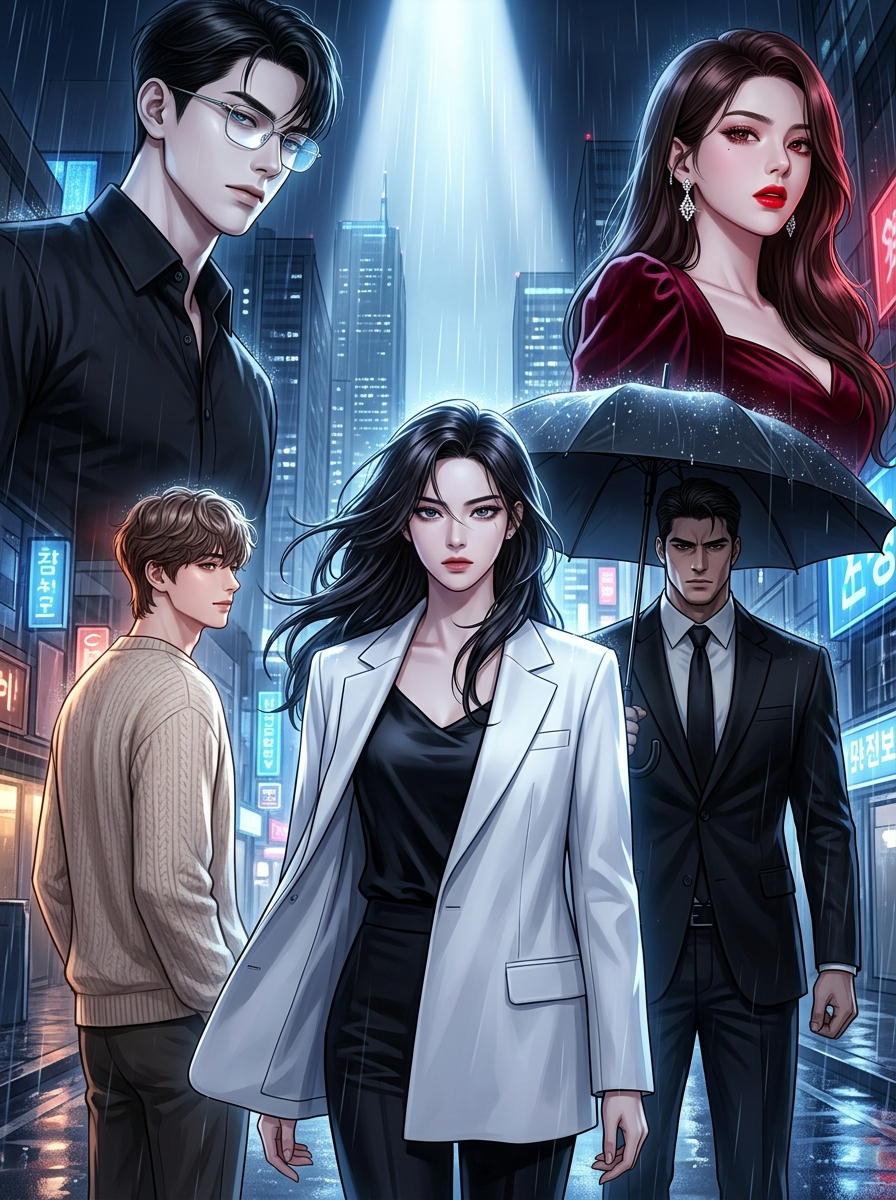
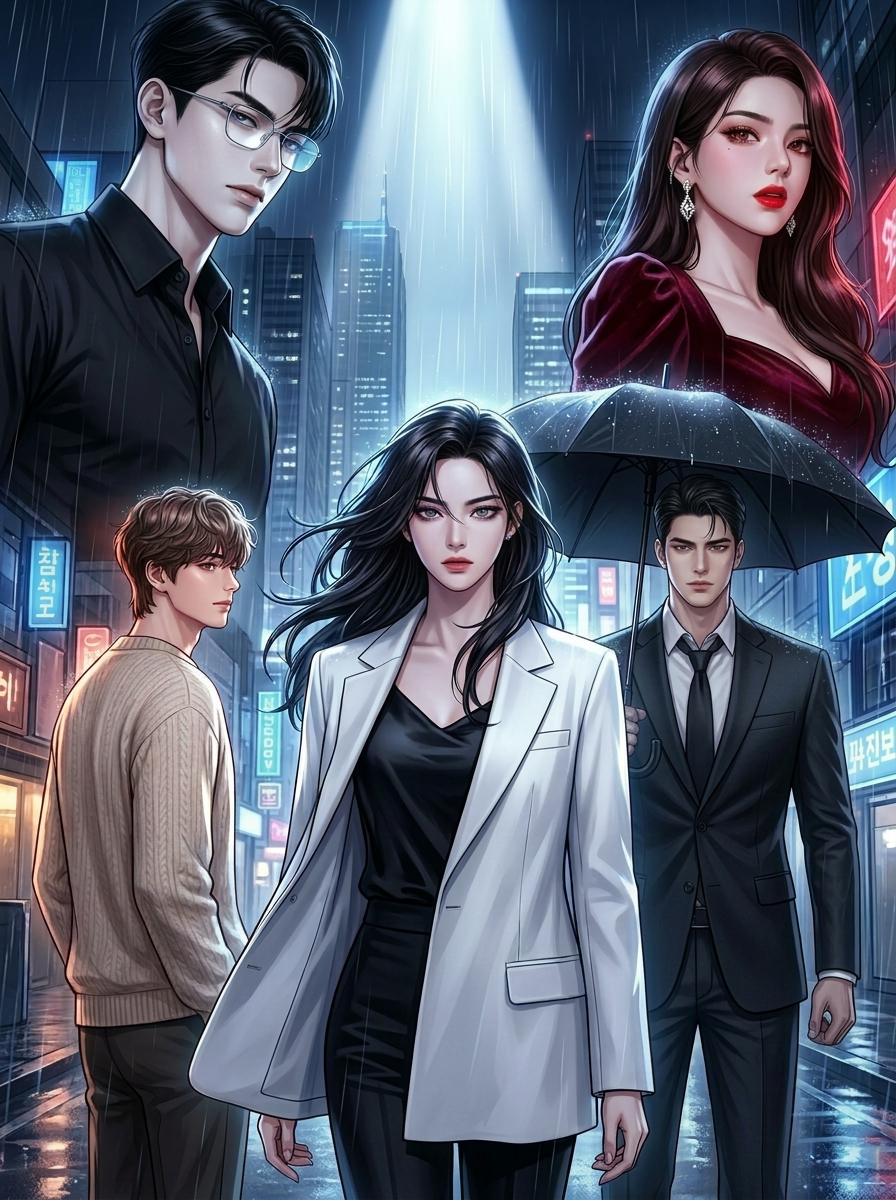
更新

diff --git a/sky/正文/第011章.md b/sky/正文/第011章.md
@@ -1,0 +1,173 @@
+清晨，陆家大宅。
+
+晨光穿过巨大的落地窗，却没能驱散客厅里压抑的冷空气。
+
+陆星朗被佣人从楼上叫下来。他穿着宽松的浅色针织衫，单手插在兜里，慢条斯理地走下旋转楼梯。
+
+一楼的真皮沙发上，坐着四个人。
+
+陆知远沉着脸，陆母端着茶盏。对面，方明川眉头紧锁，方琳戴着一副能遮住半张脸的黑超墨镜，双臂环抱，冷得像一块冰。
+
+“大家早。”陆星朗走到单人沙发前，径直坐下。
+
+方明川手里捏着的骨瓷茶杯重重磕在茶几上，发出一声脆响。
+
+“这么大的集团年度广告，说换人就换人！”方明川盯着陆星朗，声音压着怒火，“连个招呼都不打。你让琳琳的脸往哪里搁？让我的脸往哪里搁！”
+
+陆知远眉头一皱，立刻接力施压：“她是你的未婚妻！她失踪了两天，你去哪里找过她？自己未婚妻的行踪都不知道，你以后怎么当别人的丈夫，怎么管好这个家！”
+
+陆星朗靠在椅背上，没出声，眼底划过一丝极淡的嘲弄。
+
+“老方，知远。”
+
+陆母慢条斯理地撇了撇茶沫，声音温和却带着不容置疑的锋芒：“你们又不是不知道，从小到大，只有琳琳管星朗的份儿。我们星朗，什么时候管得了你们家琳琳？”
+
+方明川被噎了一下。
+
+他心里极度不舒服，但陆母的娘家背景深厚，他不敢对着陆家主母发作。
+
+方明川只能硬生生咽下这口气，继续将矛头对准陆星朗：“星朗，我就问你一句。你心里到底还有没有琳琳？还有没有我这个未来岳父！”
+
+大厅里的空气彻底安静下来。
+
+只有座钟的秒针在走。
+
+一直冷着脸的方琳，突然发出一声极轻的嗤笑。
+
+当初本以为陆星朗不会反抗，自己又需要一个足够体面的挡箭牌，才答应了这门联姻。既然事已至此，又还没官宣，与其哪天被陆家羞辱出门，不如她自己先来掀翻这张桌子。
+
+“Never mind。”
+
+方琳扬起下巴，声音清脆傲慢：“取消婚约吧。”
+
+“什么？！”
+
+方明川和陆家父母同时变了脸色。陆知远更是猛地站了起来。
+
+方琳根本不看长辈们的反应，目光直直越过茶几，盯着陆星朗。
+
+“你最近天天往芯动力跑，频繁接近那个叫许青禾的助理，无非就是想气我而已。”她勾起艳红的唇角，用一种施舍语气说道，“弟弟，我也已经另有对象了。姐姐成全你。”
+
+说完，她抓起旁边的爱马仕手袋，站起身，头也不回地往外走。
+
+高跟鞋敲击着大理石地板，发出尖锐刺耳的声响，响彻整个大厅。
+
+众人都惊愕在原地。
+
+“琳琳！你胡说八道什么！”方明川急得满头大汗，转头指着陆星朗，“星朗，这事没完！”
+
+他又立刻转向陆家二老，赔着笑脸鞠躬：“知远，弟妹，她没睡醒，小孩子说的气话，千万别当真！”
+
+说完，方明川转身气喘吁吁地追了出去。
+
+等他冲到别墅大门外时，方琳的那辆红色敞篷跑车早就轰鸣着排气管，溜得连尾灯都看不见了。
+
+只留下方明川一个人站在晨风中，气急败坏地直跺脚。
+
+——
+
+上午九点，青锋林区派出所门外。
+
+路炎穿着一身黑色速干运动服，跨在一辆碳纤维公路车上，正准备减速进院报到。
+
+一辆红色敞篷跑车带着刺耳的刹车声，扬起一阵尘土，硬生生切进他的车道，停在旁边。
+
+“滴！滴！”
+
+跑车喇叭在寂静的林区里极其嚣张地响了两声。
+
+路炎捏住刹车，长腿支地。
+
+他偏过头，看着跑车驾驶座上摘下墨镜的方琳。
+
+“方大小姐，在公安派出所大门外恶意鸣笛、寻衅滋事。我可以抓你进去住四十八小时。”
+
+方琳单手搭在车门上，眼波流转，带着几分挑衅和刻意的媚态。
+
+“扣我吧，路sir~ 要不，我们再去审讯室，单独聊聊？”
+
+“无聊。”路炎踩上踏板准备走人，“找个班上吧，大小姐。”
+
+“站住！”
+
+方琳拔高了声音：“你救了我，我还没好好谢你呢，你想要什么？钱，还是位置？”
+
+路炎只留下一个风一样的背影。
+
+“我要的东西，你给不了。”
+
+“是什么呀！”方琳不甘心地冲着他的背影大喊。
+
+风把男人的声音碎在清晨的空气里。
+
+“正义。”
+
+方琳坐在跑车里，看着那道挺拔的背影消失在派出所大门内。
+
+正义？
+
+今天确实给不了，改天应该可以。
+
+跑车引擎发出一声暴躁的轰鸣，猛地掉头，直奔芯动力片场。
+
+——
+
+芯动力影棚。
+
+机位正在平移。许青禾穿着一套剪裁极佳的通勤风休闲服，站在光影中心，正在确认走位。
+
+不远处的VIP休息区里，裴晚宁和景行刚拍完主线的定妆，正端着咖啡和经纪人谈笑风生。
+
+“砰！”
+
+影棚厚重的隔音门被一脚踹开。
+
+全场瞬间死寂。
+
+所有工作人员都僵在原地，连大气都不敢出。
+
+方琳踩着高跟鞋，带着一身极具压迫感的冷香，大步流星地走进片场。
+
+她没有走向导演台，也没有走向场地中央，而是径直走向了VIP休息区。
+
+裴晚宁和景行脸上的笑意僵住，还没来得及开口打招呼。
+
+方琳直接端起桌上两杯刚送来的冰美式。
+
+“哗——”
+
+深褐色的冰水毫无预兆地泼出，精准地淋在两人刚换上的“星”系列和“芯”系列高定成衣上。冰块顺着裴晚宁的领口砸落在地。
+
+“你疯了？！”裴晚宁尖叫一声跳起来，景行也猛地站直，脸色铁青，“方琳，你别太过分！”
+
+方琳随手把空纸杯扔在桌上，抽出纸巾擦了擦指尖。
+
+“过分？”她眼神高高在上地睨着景行，“哟，想当骑士吗？你们不过是趁主人不在，进来偷东西的两个小偷罢了。”
+
+景行气得浑身发抖，正要发作，旁边的经纪人死死拉住他的手腕，拼命摇头。在路可长公主面前，他们连顶嘴的资格都没有。
+
+方琳冷嗤一声，转过身，踩着满地的狼藉，一步步走到场地正中央。
+
+镁光灯下，许青禾平静地看着她，并没有退避。
+
+“方小姐，没有人想偷你的东西。”许青禾语气平稳，“是你自己先不爱惜羽毛，让整个剧组干等两天，几十号人陪着你烧钱。如果你自己没有放弃那个位置，谁也偷不走。”
+
+这几句话如同冷水滴进滚油。
+
+周围的工作人员倒吸了一口凉气。
+
+方琳的目光在许青禾脸上停了半秒，随后缓缓下移，落在那套备用的休闲服上。
+
+出乎所有人的意料，方琳没有泼咖啡。
+
+“算了。你也不过是个替身罢了。”
+
+方琳逼近半步，目光越过许青禾的肩膀，冷冷地吐出一句：
+
+“有罪的，是选中你那个人。”
+
+她替许青禾理了理衣领，然后环视片场。
+
+“大家好好拍。我不要的衣服，也是很好看的呢。”
+
+丢下这句话，她没有再看任何人一眼，转过身，踩着满地的狼藉，大步朝影棚外走去。

diff --git a/sky/项目资料/灵感备忘_兰姐红鲱鱼.md b/sky/项目资料/灵感备忘_兰姐红鲱鱼.md
@@ -1,0 +1,24 @@
+# 灵感备忘：关于“兰姐”身份的叙述性诡计（红鲱鱼）
+
+**记录时间：** 2026-09-25
+
+## 核心创意
+在揭示真正的地下赌场掌局者“兰姐”是**萧兰**之前，故意在前期正文中埋下烟雾弹，引导读者坚定地以为“兰姐”是女主那位名叫“兰因”的闺蜜**沈兰因**。
+
+这会产生绝佳的双重反转效果：
+1. **第一层反转（读者自以为猜中）**：读者以为沈兰因是幕后大佬，为了替女主出气绑架了方琳，直呼“闺蜜太飒了”。
+2. **第二层反转（真正的核爆）**：随着调查深入，发现沈兰因虽然厉害但掌控不了这个局，真正的“兰姐”是那个在福利院旧照片里、消失了二十多年、把两个亲生儿子当筹码的母亲萧兰！
+
+## 具体修改与铺垫建议（前12章适用）：
+1. **第2章（海边吃饭）**：增加沈兰因电脑屏幕的细节，如屏幕上闪过“保密公关名单”或“白马会所”等字眼，暗示她深谙灰黑地带运作。
+2. **第4章（救女主回家）**：强化沈兰因说“以后姐罩着你”时的黑道气场。女主问遇到坏人怎么办时，加一句半真半假的台词：“在G市，敢动我沈兰因的人，恐怕还没生出来。”
+3. **第9章（影棚干等）**：许青禾发微信吐槽方琳没来时，沈兰因回复一句暗示性极强的话：“恶人自有天收，说不定她现在正被关在哪个深山老林里叫天天不应呢。”（这与第10章方琳确实被关在山里完美契合，让读者深信不疑）。
+4. **第10章结尾**：男模白屿向“兰姐”汇报。读者会立刻顺理成章地将嫌疑锁定沈兰因。
+
+## 对第12章“神秘短信”的加成效果
+短信内容：“别信方井彦。他知道我是谁。”
+- **读者的第一反应（被误导）**：是沈兰因发的！方井彦查到了白马会所背后的她，她在警告青禾。
+- **后续剧情反转揭秘**：其实是**萧云策**发的！萧云策发现方井彦查出了他就是保镖前任，甚至查出了同母异父的血缘关系。
+
+## 备注
+此创意不改变《萧兰人物线》的任何官方核心设定，仅通过几句台词和细节调整，就能极大增强连载时的悬念感、读者讨论度和评论区的活跃度。

diff --git a/sky/项目导航.md b/sky/项目导航.md
@@ -4,27 +4,41 @@
 
 - [[创作规范/写作总控|写作总控]]
 - [[创作规范/文字质感|文字质感]]
+- [[创作规范/场景设计与反转节奏|场景设计与反转节奏]]
+- [[创作规范/写作参考_第1章文风与行文规范|写作参考_第1章文风与行文规范]]
 - [[项目资料/网文版_强狗血大纲|强狗血大纲总览]]
 - [[项目资料/网文版_人物与关系|人物与关系]]
 - [[项目资料/网文版_分卷与开篇细纲|分卷与开篇细纲]]
 - [[项目资料/网文版_反转伏笔清单|反转伏笔清单]]
+- [[项目资料/网文版_商战主线|商战主线]]
+- [[项目资料/网文版_连载章法|连载章法]]
 - [[项目资料/萧云策情感线|萧云策情感线]]
 - [[项目资料/方井彦身世线|方井彦身世线]]
 - [[项目资料/萧兰人物线|萧兰人物线]]
+- [[审查记录/伏笔回收进度表|伏笔回收进度表]]
+- [[审查记录/方井彦人设行为记录|方井彦人设行为记录]]
+- [[审查记录/方井彦占有欲萌发时间线|方井彦占有欲萌发时间线]]
 - [[引子清单/引子总表|引子总表]]
 - [[正文/第001章|第001章]]
 - [[正文/第002章|第002章]]
 - [[正文/第003章|第003章]]
 - [[正文/第004章|第004章]]
+- [[正文/第005章|第005章]]
+- [[正文/第006章|第006章]]
+- [[正文/第007章|第007章]]
 - [[正文/第008章|第008章]]
 - [[正文/第009章|第009章]]
+- [[正文/第010章|第010章]]
+- [[正文/第011章|第011章]]
+- [[正文/第012章|第012章]]
 
 ## 仓库结构
 
-- `创作规范/`：写作总控、全文文字质感与章节写作参考。
-- `项目资料/`：立项案、前期准备包与当前有效大纲。
+- `创作规范/`：写作总控、全文文字质感与章节写作参考、场景与反转设计。
+- `项目资料/`：立项案、前期准备包与当前有效大纲、商战与连载章法等。
+- `审查记录/`：用于记录伏笔回收进度、人物行为连贯性、以及章节审查报告。
 - `引子清单/`：收集和管理可用于卷首、章首及倒叙开篇的引子。
-- `正文/`：正式章节。
+- `正文/`：正式章节，并包含已封存的废案或旧版（`封存/`）。
 
 ## 当前项目
 

diff --git a/sky/审查记录/伏笔回收进度表.md b/sky/审查记录/伏笔回收进度表.md
@@ -69,6 +69,8 @@
 | 路炎／纪薇警官出场 | 待定（约方琳被拘） | — | 🟡待埋设 | 🔸 | 只露职能，不露战友院友 |
 | 同房设局与舆论 | 待定（陆许婚约后） | 分层回收 | 🟡待埋设 | ⭐ | 真同房；陆星朗须公开担责 |
 | 福利院地下＝兰姐据点 | 待定 | 第88章前后 | 🟡待埋设 | ⭐ | 路炎主线终点 |
+| 路炎被贬真相：因追求正义擅自执法，导致嫌疑人家属死亡 | 第10-11章 | 待定 | 🟢已埋设 | 🔸 | 侧面展现其落魄与执念，后续借他人之口或档案揭露重磅真相 |
+| 方琳暗中调令：动用特权将路炎调回市局 | 第11章 | 待定 | 🟢已埋设 | ⭐ | 第11章路炎不知情，方琳刻意未挑明。后续路炎将发现是她走后门 |
 
 ---
 
@@ -120,6 +122,10 @@
 - ✅ **方井彦操控租房**：第160行揭示"所谓的天意，是他"
 - 🟢 **方井彦的控制欲人设**：通过隐秘操控展现
 - 🟢 **许青禾的成长**：从"独立就是不麻烦任何人"到"想回家住"
+
+### 第10-11章
+- 🟢 **路炎落魄出场与“正义”执念**：暗示其过去的执法悲剧与沉重底色。
+- 🟢 **方琳的暗中调令**：方琳已将他调回市局，但未挑明，留作后续两人拉扯与冲突爆发的伏笔。
 
 ---
 

diff --git a/sky/AGENTS.md b/sky/AGENTS.md
@@ -4,6 +4,7 @@
 
 - 用户要求创作、续写或修改正文时，默认先读取 `创作规范/写作总控.md`。
 - 按 `创作规范/写作总控.md` 指定的资料优先级读取相关文件；至少读取 `创作规范/文字质感.md`、`项目资料/网文版_强狗血大纲.md`（总览）和 `正文/` 中与当前章节相邻的正文，并按章节需要读取人物、分卷、伏笔和情感线模块。
+- 若涉及伏笔回收、特定人物状态或时间线验证，应主动读取 `审查记录/` 目录下的相关进度表（如伏笔回收、人设行为记录等）。
 - `项目资料/网文版_强狗血大纲_母本.md` 仅作历史存档，除非需要核对遗漏或冲突，否则不作为日常写作的默认读取文件。
 - 不要求用户重复提醒行文基调；每次交付前执行写作总控中的“写作后自检”。
 - 当前有效剧情版本是 `项目资料/网文版_强狗血大纲.md`；与较克制的旧方案冲突时，以网文版为准。

diff --git a/sky/正文/第010章.md b/sky/正文/第010章.md
@@ -1,7 +1,7 @@
 深夜，盘山公路。
 
 一辆黑色越野车隐入林道边缘。
-路炎把帐篷扎在背风处。他在山道上开了一夜，起了大雾，前方的路况不安全，索性原地歇脚。
+路炎把帐篷扎在背风处，就像平常一样，太阳落山之后，开到哪里就在哪里过夜。
 
 山风穿过松林，发出细碎的呼啸。
 路炎靠在睡袋上，没睡沉。
@@ -76,7 +76,7 @@
 刚才在越野车副驾驶的储物格缝隙里，她清清楚楚地看到了一个黑色的皮套，里面露出了半张证件。
 
 姓名：路炎。
-警衔：见习督察。
+警衔：森林警察。
 
 ——
 
